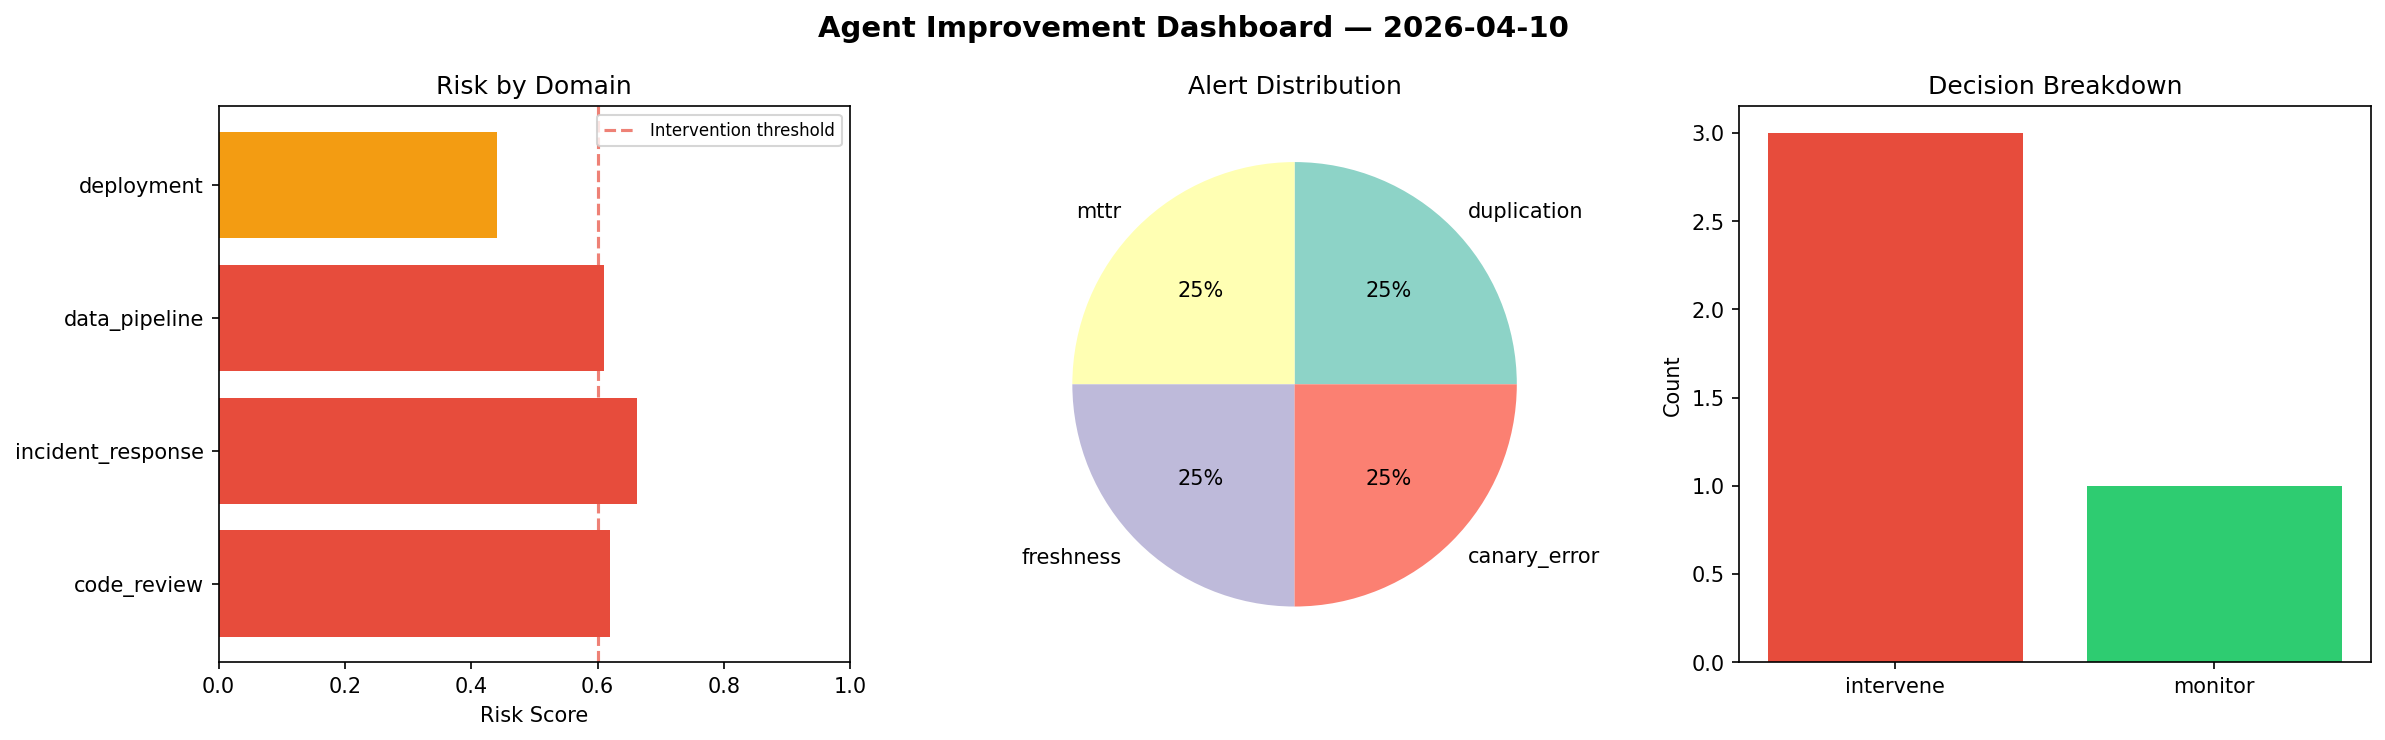
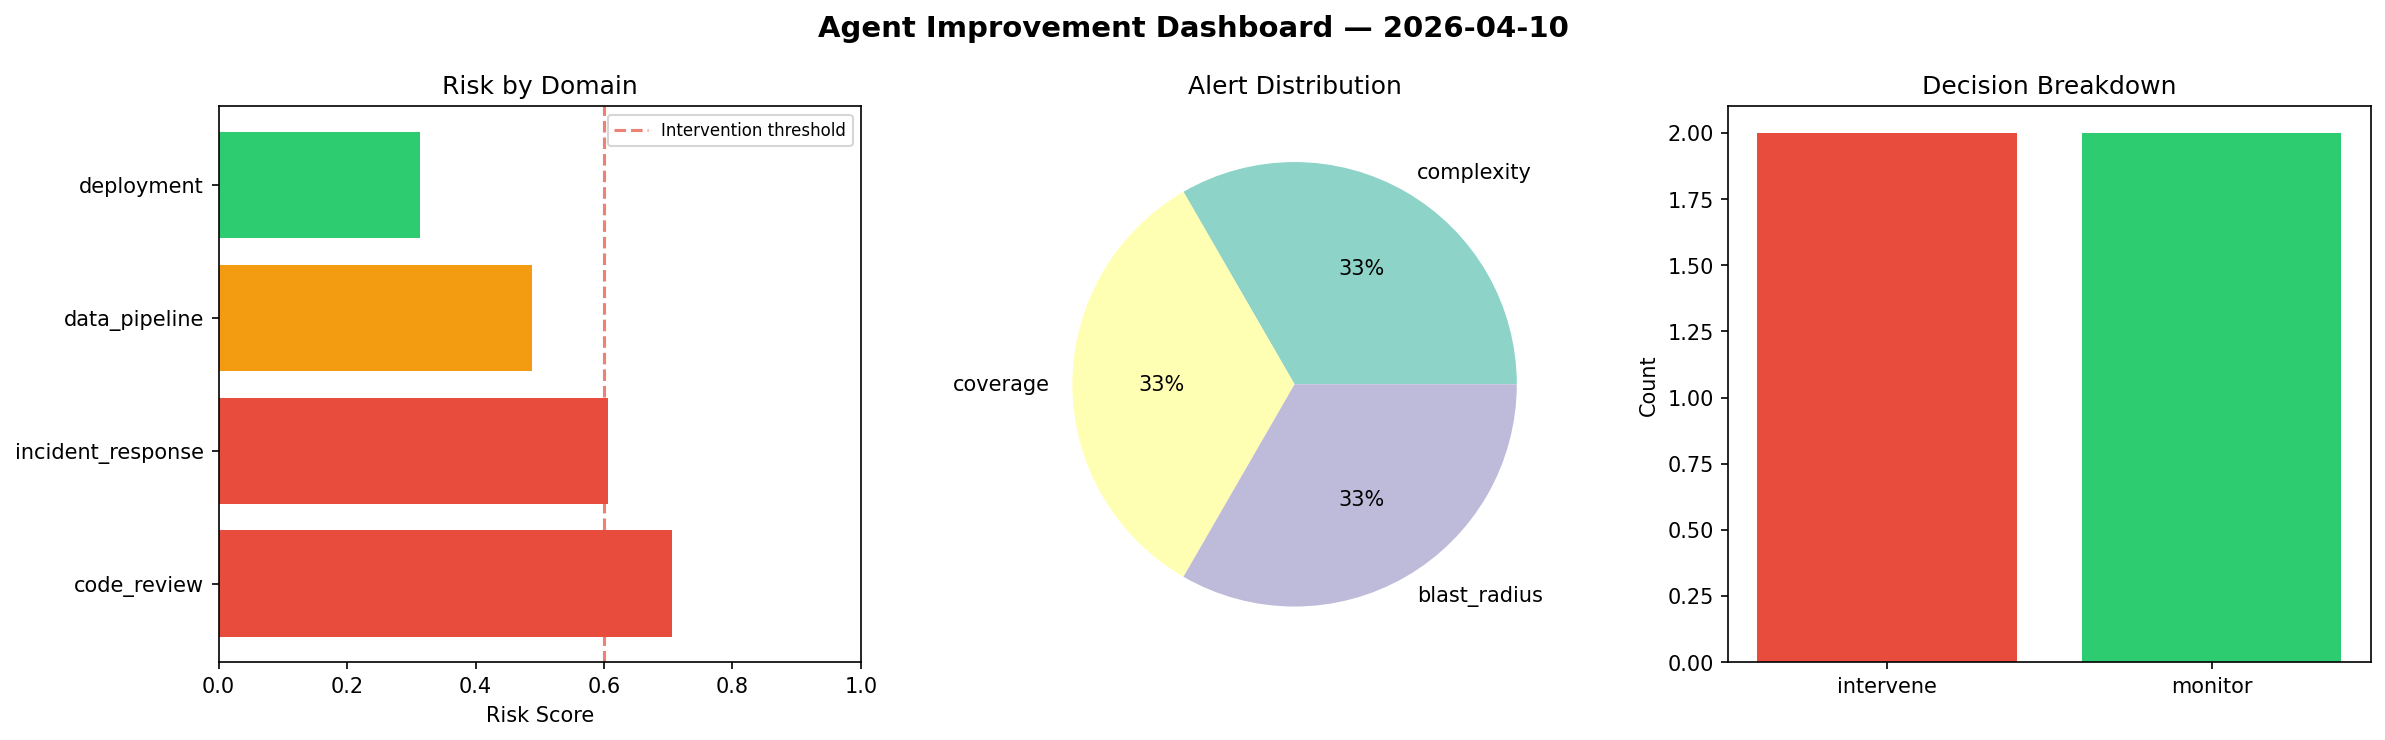
agent-improvement: daily cycle 2026-04-10T15:07

diff --git a/logs/2026-04-10.md b/logs/2026-04-10.md
@@ -1,6 +1,6 @@
 # Agent Improvement Report — 2026-04-10
 
-**Cycle ID:** `9b1089ad` | **Avg Risk:** 0.5835 | **Interventions:** 3/4
+**Cycle ID:** `009c2ad7` | **Avg Risk:** 0.5285 | **Interventions:** 2/4
 
 ![Dashboard](2026-04-10_dashboard.png)
 
@@ -10,18 +10,18 @@
 
 | Domain | Risk Score | Decision | Alerts |
 |--------|-----------|----------|--------|
-| code_review | 0.6195 | intervene | duplication |
-| incident_response | 0.6632 | intervene | mttr |
-| data_pipeline | 0.6109 | intervene | freshness |
-| deployment | 0.4404 | monitor | canary_error |
+| code_review | 0.7059 | intervene | complexity, coverage |
+| incident_response | 0.6062 | intervene | blast_radius |
+| data_pipeline | 0.4886 | monitor | none |
+| deployment | 0.3134 | monitor | none |
 
 ## Delta vs Yesterday
 
 | Domain | Today | Yesterday | Change |
 |--------|-------|-----------|--------|
-| code_review | 0.6195 | 0.3386 | 📈 83.0% |
-| incident_response | 0.6632 | 0.4869 | 📈 36.2% |
-| data_pipeline | 0.6109 | 0.2547 | 📈 139.9% |
-| deployment | 0.4404 | 0.2773 | 📈 58.8% |
+| code_review | 0.7059 | 0.3386 | 📈 108.5% |
+| incident_response | 0.6062 | 0.4869 | 📈 24.5% |
+| data_pipeline | 0.4886 | 0.2547 | 📈 91.8% |
+| deployment | 0.3134 | 0.2773 | 📈 13.0% |
 
 **Refinement:** `{'adjustment': 'maintain', 'trend': 'improving', 'window': 4}`
